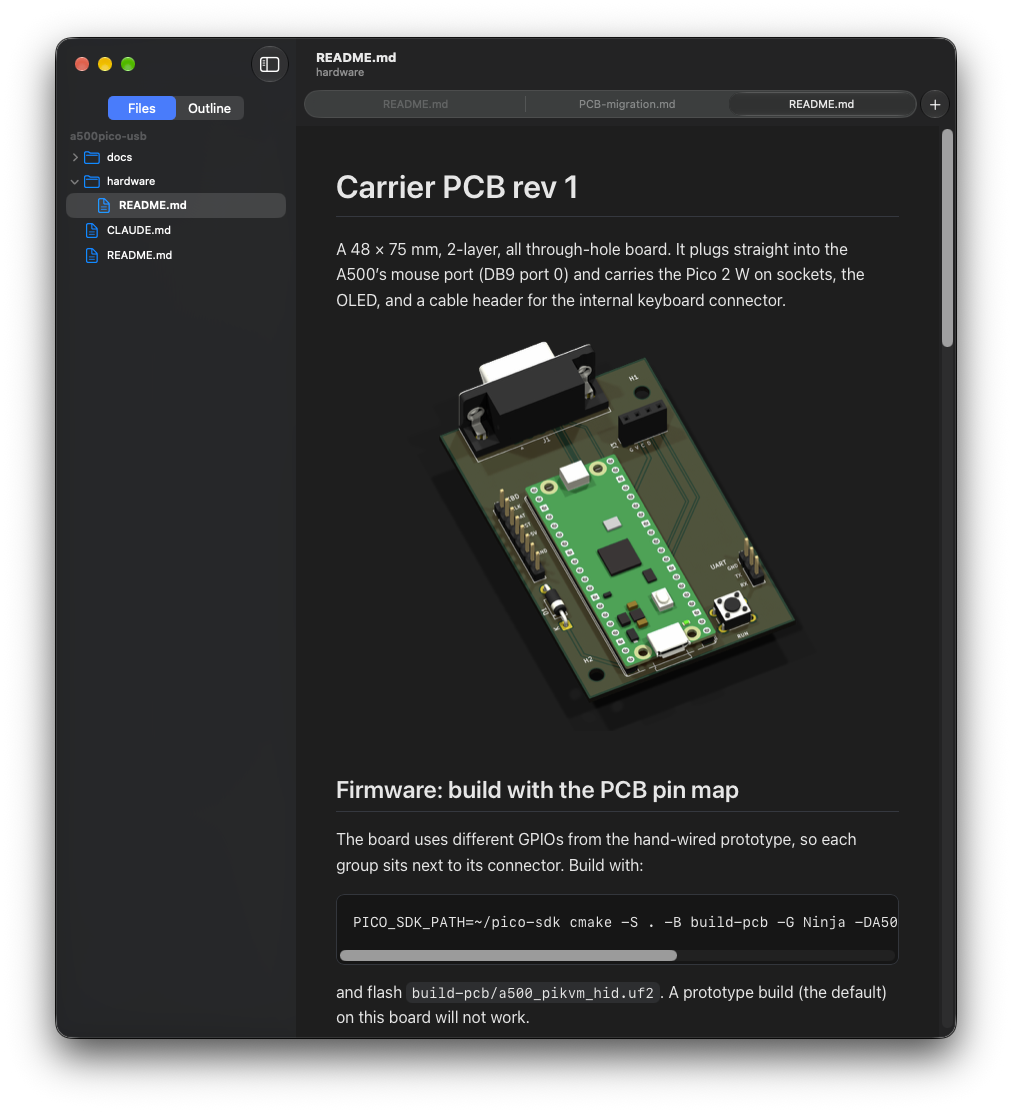
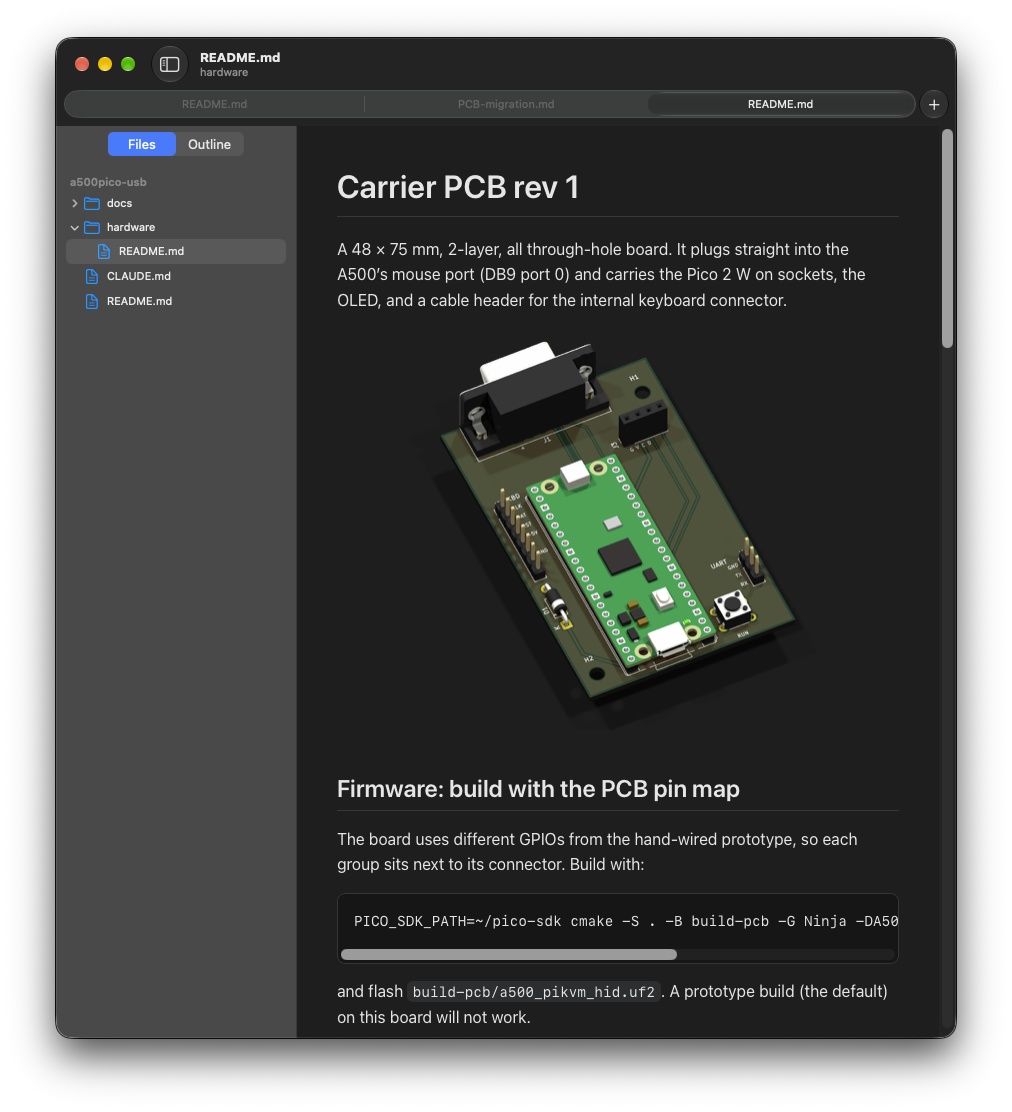
Sidebar: own slide-in panel instead of NavigationSplitView
The split view laid the sidebar out visible and animated it away on load,
which flashed it and left the selected row's name squeezed. A plain HStack
panel starts hidden (or per the setting), slides in on toggle, has a
draggable, remembered width, and draws its own selection highlight.

diff --git a/Marky/DocumentView.swift b/Marky/DocumentView.swift
@@ -2,12 +2,23 @@ import SwiftUI
 
 struct DocumentView: View {
     @ObservedObject var model: DocumentModel
+    @AppStorage(SettingsKey.sidebarWidth) private var sidebarWidth: Double = 240
+    @State private var dragStartWidth: Double?
 
     var body: some View {
-        NavigationSplitView(columnVisibility: $model.columnVisibility) {
-            Sidebar(model: model)
-                .navigationSplitViewColumnWidth(min: 180, ideal: 240, max: 400)
-        } detail: {
+        // A plain HStack instead of NavigationSplitView: the split view lays the
+        // sidebar out visible and then animates it away on load, which flashed it
+        // and left squeezed text behind. This starts in the right state and
+        // slides only when toggled.
+        HStack(spacing: 0) {
+            if model.sidebarVisible {
+                Sidebar(model: model)
+                    .frame(width: sidebarWidth)
+                    .background(VisualEffect(material: .sidebar).ignoresSafeArea())
+                    .overlay(alignment: .trailing) { resizeHandle }
+                    .transition(.move(edge: .leading))
+                Divider().ignoresSafeArea()
+            }
             MarkdownWebView(model: model)
                 .overlay(alignment: .topTrailing) {
                     if model.findVisible {
@@ -19,11 +30,47 @@ struct DocumentView: View {
                 .animation(.easeOut(duration: 0.15), value: model.findVisible)
                 .ignoresSafeArea(.container, edges: .bottom)
         }
+        .clipped()
+        .toolbar {
+            ToolbarItem(placement: .navigation) {
+                Button { model.toggleSidebar() } label: { Image(systemName: "sidebar.left") }
+                    .help(model.sidebarVisible ? "Hide Sidebar" : "Show Sidebar")
+            }
+        }
         .navigationTitle(model.displayName)
         .navigationSubtitle(model.fileURL.deletingLastPathComponent().lastPathComponent)
         .navigationDocument(model.fileURL)
         .frame(minWidth: 420, minHeight: 300)
     }
+
+    private var resizeHandle: some View {
+        Color.clear
+            .frame(width: 6)
+            .contentShape(Rectangle())
+            .onHover { inside in inside ? NSCursor.resizeLeftRight.push() : NSCursor.pop() }
+            .gesture(DragGesture(minimumDistance: 1)
+                .onChanged { value in
+                    let start = dragStartWidth ?? sidebarWidth
+                    dragStartWidth = start
+                    sidebarWidth = min(420, max(170, start + value.translation.width))
+                }
+                .onEnded { _ in dragStartWidth = nil })
+    }
+}
+
+/// NSVisualEffectView, for the translucent sidebar background.
+private struct VisualEffect: NSViewRepresentable {
+    let material: NSVisualEffectView.Material
+
+    func makeNSView(context: Context) -> NSVisualEffectView {
+        let view = NSVisualEffectView()
+        view.material = material
+        view.blendingMode = .behindWindow
+        view.state = .followsWindowActiveState
+        return view
+    }
+
+    func updateNSView(_ view: NSVisualEffectView, context: Context) {}
 }
 
 private struct Sidebar: View {
@@ -94,6 +141,11 @@ private struct FileRow: View {
                 .lineLimit(1)
                 .help(node.url.path)
                 .tag(node.url)
+                // Outside a split view the sidebar list doesn't paint its selection; draw it.
+                .listRowBackground(
+                    node.url == model.fileURL
+                        ? RoundedRectangle(cornerRadius: 6).fill(Color.primary.opacity(0.1)).padding(.horizontal, 10)
+                        : nil)
                 .contextMenu {
                     Button("Open in New Tab") { WindowManager.shared.open(node.url, nextTo: model.webView?.window) }
                     Button("Open in New Window") { WindowManager.shared.open(node.url, newWindow: true) }

diff --git a/Marky/DocumentModel.swift b/Marky/DocumentModel.swift
@@ -15,7 +15,7 @@ final class DocumentModel: ObservableObject {
 
     // Sidebar
     @Published var sidebarMode: SidebarMode { didSet { saveSidebarState() } }
-    @Published var columnVisibility: NavigationSplitViewVisibility
+    @Published var sidebarVisible: Bool
     @Published private(set) var rootURL: URL
     @Published private(set) var tree: [FileNode] = []
     @Published var expanded: Set<URL> = []
@@ -58,11 +58,11 @@ final class DocumentModel: ObservableObject {
         self.rootURL = (root ?? FolderScanner.projectRoot(for: url)).standardizedFileURL
         if let other {
             sidebarMode = other.sidebarMode
-            columnVisibility = other.columnVisibility
+            sidebarVisible = other.sidebarVisible
         } else {
             let d = UserDefaults.standard
             sidebarMode = SidebarMode(rawValue: d.string(forKey: SettingsKey.sidebarMode) ?? "") ?? .files
-            columnVisibility = d.bool(forKey: SettingsKey.showSidebar) ? .all : .detailOnly
+            sidebarVisible = d.bool(forKey: SettingsKey.showSidebar)
         }
         text = Self.read(url) ?? ""
         render()
@@ -241,12 +241,12 @@ final class DocumentModel: ObservableObject {
     }
 
     func toggleSidebar() {
-        columnVisibility = columnVisibility == .detailOnly ? .all : .detailOnly
+        withAnimation(.easeInOut(duration: 0.22)) { sidebarVisible.toggle() }
     }
 
     func show(_ mode: SidebarMode) {
         sidebarMode = mode
-        if columnVisibility == .detailOnly { columnVisibility = .all }
+        if !sidebarVisible { withAnimation(.easeInOut(duration: 0.22)) { sidebarVisible = true } }
     }
 
     private func saveSidebarState() {

diff --git a/Marky/MarkyApp.swift b/Marky/MarkyApp.swift
@@ -119,7 +119,7 @@ struct MarkyCommands: Commands {
         }
 
         CommandGroup(before: .toolbar) {
-            item(.toggleSidebar, model?.columnVisibility == .detailOnly ? "Show Sidebar" : "Hide Sidebar",
+            item(.toggleSidebar, model?.sidebarVisible == true ? "Hide Sidebar" : "Show Sidebar",
                  enabled: model != nil) { model?.toggleSidebar() }
             item(.showFiles, enabled: model != nil) { model?.show(.files) }
             item(.showOutline, enabled: model != nil) { model?.show(.outline) }

diff --git a/Marky/Settings.swift b/Marky/Settings.swift
@@ -12,6 +12,7 @@ enum SettingsKey {
     static let openInTabs = "openInTabs"
     static let sidebarMode = "sidebarMode"
     static let showSidebar = "showSidebar"
+    static let sidebarWidth = "sidebarWidth"
     static let zoom = "zoom"
 }
 

diff --git a/README.md b/README.md
@@ -24,7 +24,7 @@ own, so a `<script>` in a Markdown file does nothing.
   ⌘-click a link, or right-click a file, to open it in a new tab. Native macOS tabs: ⌘T new tab, ⌘W close,
   ⌃⇥ / ⌃⇧⇥ next/previous tab, ⌘1–⌘8 jump to a tab, ⌘9 last tab, ⌘[ / ⌘] back/forward. ⌘O also opens a folder (it
   shows the folder's README). Open tabs are restored at the next launch.
-- Sidebar ⌃⌘S, Files ⌃⌘1, Outline ⌃⌘2
+- Sidebar ⌃⌘S (hidden by default, slides in; drag its edge to resize), Files ⌃⌘1, Outline ⌃⌘2
 - Find with every match highlighted and a match count (⌘F, ⌘G, ⇧⌘G, ⌘E, Esc)
 - Zoom (⌘+ / ⌘= / ⌘- / ⌘0), remembered between launches
 - Links: web links open in your browser, links to other `.md` files open in Marky, `#anchors` scroll the page
@@ -92,9 +92,9 @@ Change All…
   app and the extension.
 - [x] **Duplicate Quick Look registrations** (3 were listed): `scripts/clean-registrations.sh`, also run by
   `release.sh`. Done 2026-11-26.
-- [ ] **Smeared name in the Files sidebar:** the selected row's text (e.g. `README.md`) can look squeezed
-  or doubled after a file is opened as a new tab from Finder or `open`. Navigating within a tab draws it
-  correctly. Cause not found yet; not the line limit or font weight.
+- [x] **Smeared name in the Files sidebar / sidebar flashing on load:** SwiftUI's split view laid the sidebar
+  out visible and animated it away on load. Replaced with a plain sidebar that starts in the right state and
+  slides in when shown (draggable width). Done 2026-11-26.
 - [ ] **Keyboard in the Files sidebar:** → / ← don't expand or collapse folders.
 - [ ] **Same-name tabs:** two `README.md` tabs look identical; show the folder when names clash.
 - [ ] **Themes and formats:** see which popular themes we can support (GitHub, GitLab, Obsidian, Typora,
